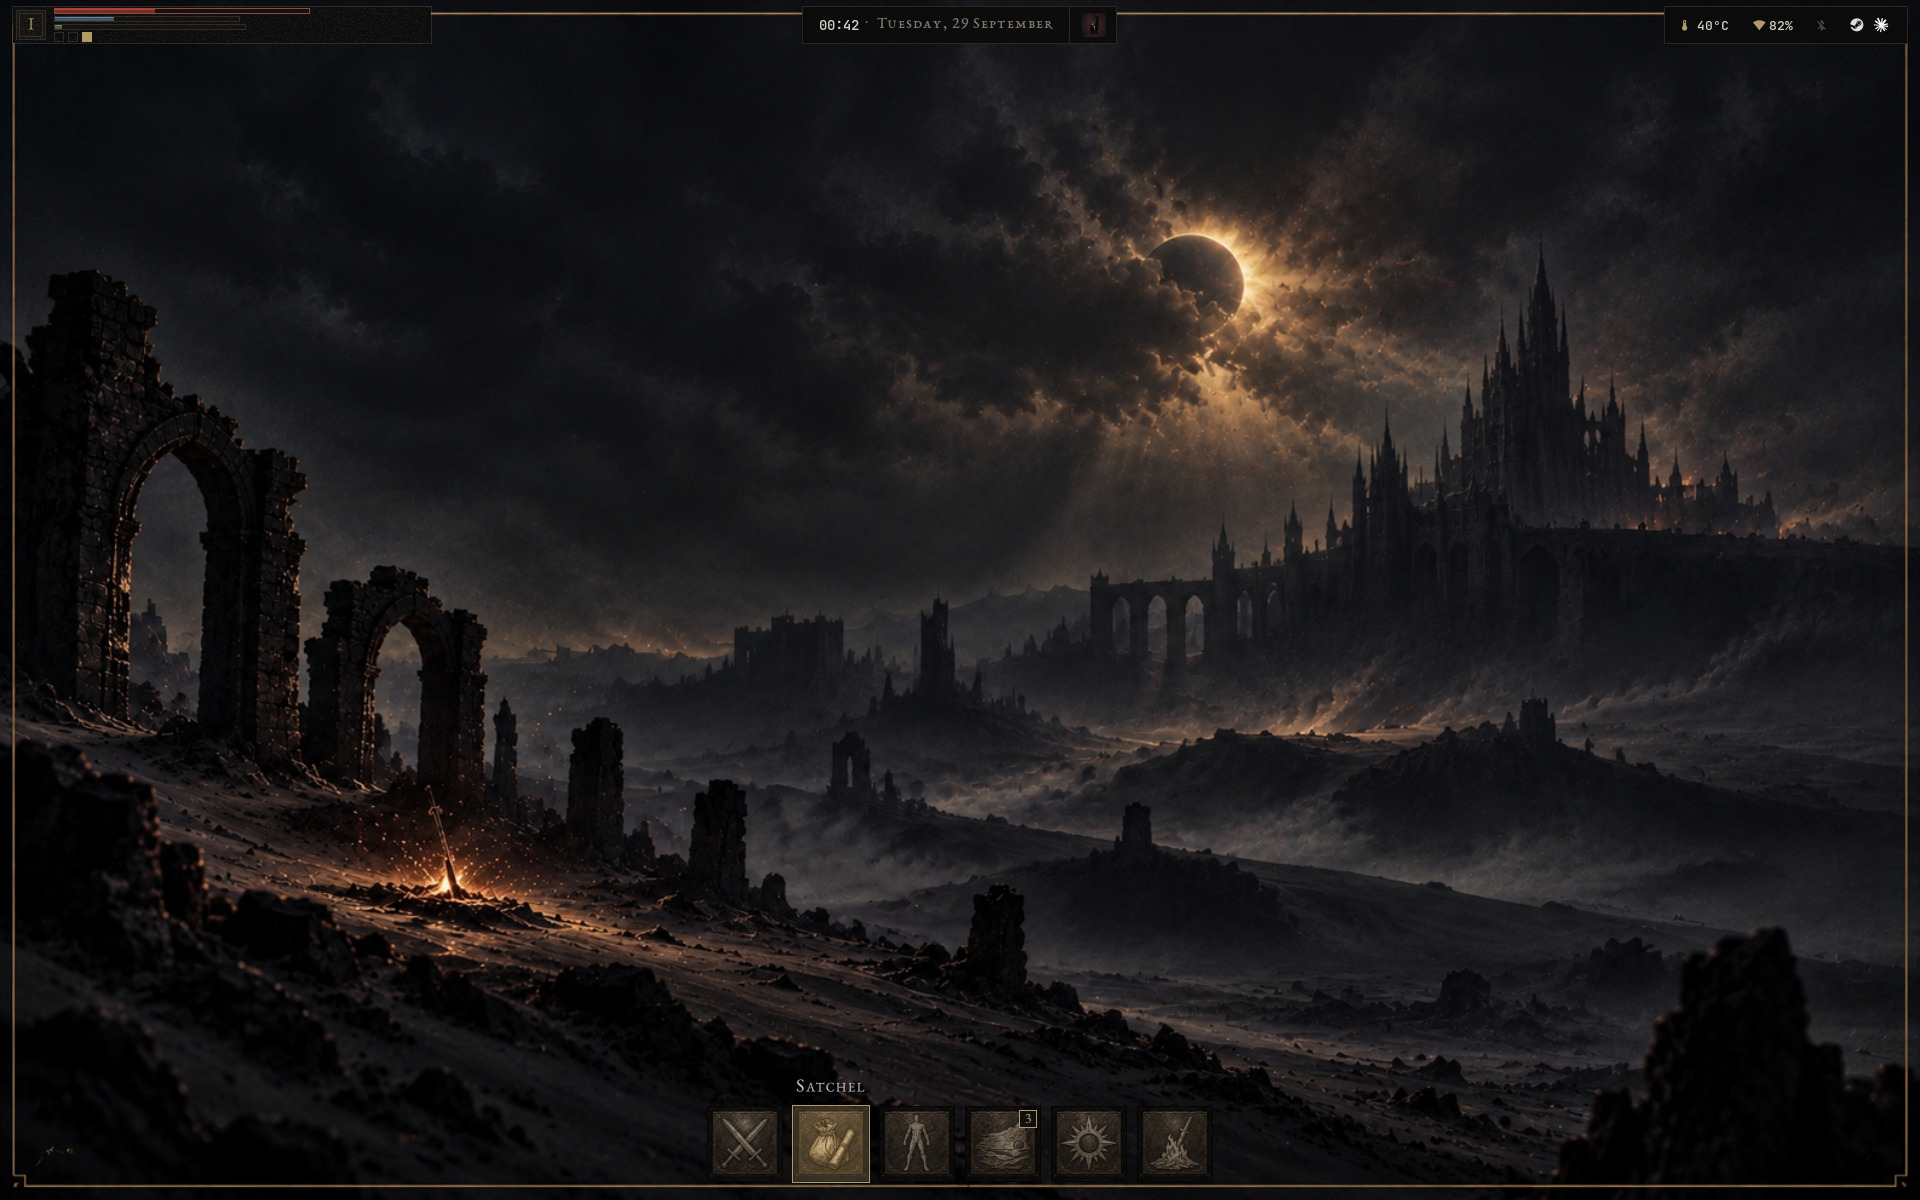
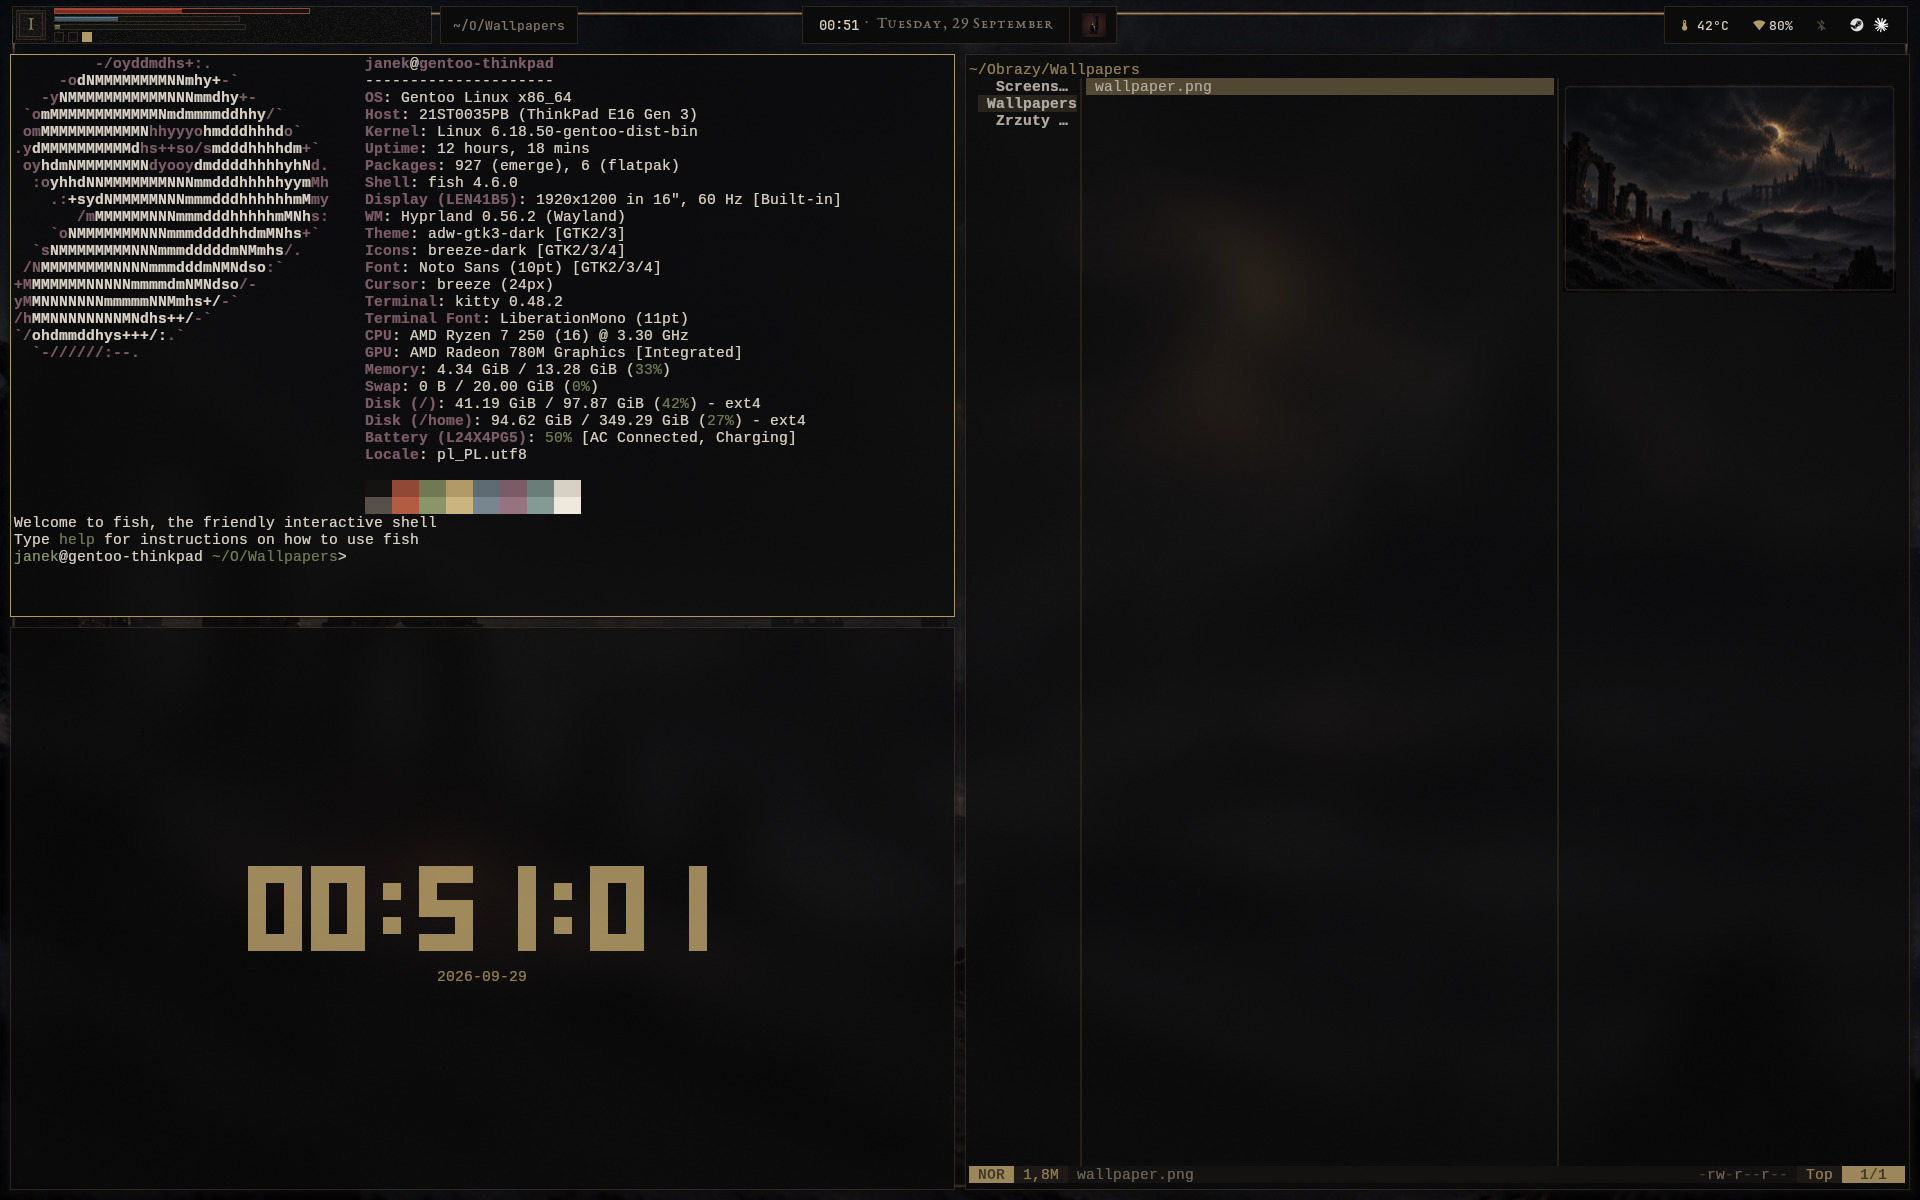
README: desktop screenshot with the welcome layout
The desktop screenshot shows what login opens (local/bin/uklad-startowy):
a terminal with fastfetch - now without the local IP - tty-clock and
yazi, on desktop 3, in English. yazi is opened in ~/Obrazy/Wallpapers,
so no part of the home directory is on the screenshot: its left column
shows only Screenshots, Wallpapers and Zrzuty ekranu, with the
wallpaper preview on the right. Alt text (EN/PL) describes it again.

diff --git a/README.md b/README.md
@@ -4,7 +4,7 @@ A complete Hyprland desktop for Gentoo Linux that borrows the feel of the Dark S
 
 **English** · [Polski](README.pl.md)
 
-![Desktop: the HUD in the top-left corner, the "now" frame on the bar and the tile row on an empty desktop](assets/zrzuty/desktop.jpg)
+![Desktop after login: the HUD in the top-left corner, the "now" frame on the bar, a terminal with fastfetch, tty-clock and yazi](assets/zrzuty/desktop.jpg)
 
 | | |
 |---|---|

diff --git a/README.pl.md b/README.pl.md
@@ -4,7 +4,7 @@ Kompletny pulpit Hyprlanda dla Gentoo Linux, który przypomina menu Dark Souls 3
 
 [English](README.md) · **Polski**
 
-![Pulpit: HUD w lewym górnym rogu, ramka „teraz” na pasku i rząd kafli na pustym pulpicie](assets/zrzuty/desktop.jpg)
+![Pulpit po zalogowaniu: HUD w lewym górnym rogu, ramka „teraz” na pasku, terminal z fastfetch, tty-clock i yazi](assets/zrzuty/desktop.jpg)
 
 | | |
 |---|---|
